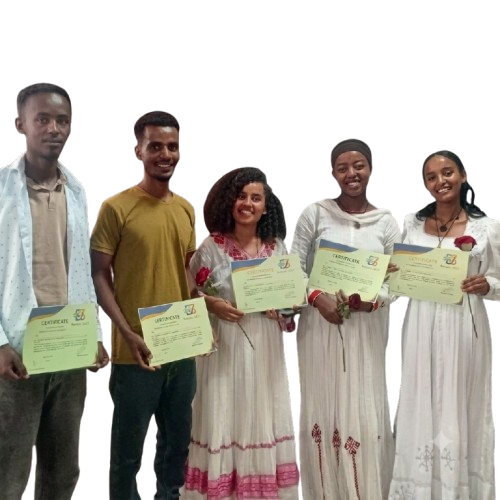
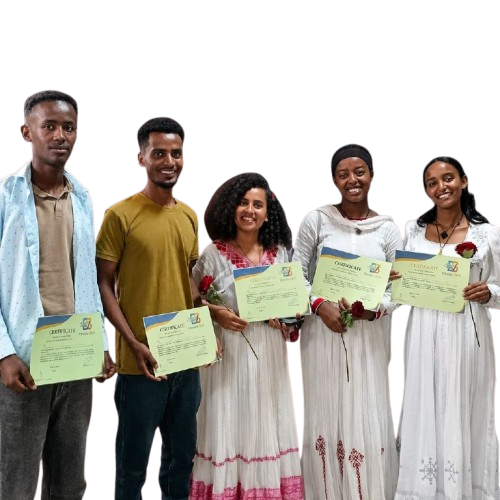
Hero, Footer, About layout

diff --git a/src/features/Home/components/Footer.tsx b/src/features/Home/components/Footer.tsx
@@ -1,27 +1,80 @@
-import { Copyright } from 'lucide-react';
+import { AtSign, Copyright, MessageCircle, Share2 } from 'lucide-react';
 import Logo from "../../../assets/operators-Logo.png"
-import { Link } from 'react-router-dom';
 
+const quickLinks = [
+  { label: "Home", href: "#hero" },
+  { label: "About", href: "#about" },
+  { label: "Team", href: "#team" },
+];
+
+const socialLinks = [
+  { label: "Social updates", href: "#", Icon: Share2 },
+  { label: "Community chat", href: "#", Icon: MessageCircle },
+  { label: "Email", href: "#", Icon: AtSign },
+];
 
 const Footer = () => {
   return (
-    <div className="flex flex-col items-center justify-center min-h-screen bg-gray-100">
-      <footer className="text-gray-600">
-        <div className="flex justify-around items-center">
-            <Link to="/" className="flex shrink-0 items-center" aria-label="SMM Operators home">
-                <img src={Logo} alt="SMM Operators logo" className="h-12 w-12 md:h-16 md:w-16 lg:h-20 lg:w-20" />
-                <span className="ml-2 text-lg font-semibold text-gray-800">SMM Operators</span>
-            </Link>
+    <footer
+      id="footer"
+      className="flex min-h-110 w-full scroll-mt-28 flex-col rounded-t-4xl bg-slate-950 px-4 py-10 text-slate-300 sm:min-h-95 sm:px-6 lg:px-16"
+    >
+      <div className="mx-auto grid w-full max-w-7xl gap-8 sm:grid-cols-2 lg:grid-cols-[1fr_auto_auto] lg:items-start">
+        <div>
+          <a href="#hero" className="flex shrink-0 items-center" aria-label="SMM Operators home">
+            <img src={Logo} alt="SMM Operators logo" className="h-14 w-14 rounded bg-white p-1" />
+            <span className="ml-3 text-lg font-semibold text-white">SMM Operators</span>
+          </a>
+          <p className="mt-4 max-w-md text-sm leading-6 text-slate-400">
+            Social media marketing support for teams that need consistent
+            planning, publishing, and reporting.
+          </p>
         </div>
 
-
-
-        <div className="flex justify-center items-center bottom-0">
-            <p> <Copyright className="inline-block mr-1" /> {new Date().getFullYear()} SMM Operators. All rights reserved.</p>
-            <p className="text-gray-600">built by <a href="#" className="text-blue-800 hover:text-blue-500">Tinsae Temesgen</a></p>
+        <div>
+          <h2 className="text-sm font-semibold uppercase tracking-[0.18em] text-white">
+            Quick links
+          </h2>
+          <nav className="mt-4 flex flex-col gap-3 text-sm">
+            {quickLinks.map((link) => (
+              <a key={link.href} href={link.href} className="transition hover:text-white">
+                {link.label}
+              </a>
+            ))}
+          </nav>
         </div>
-      </footer>
-    </div>
+
+        <div>
+          <h2 className="text-sm font-semibold uppercase tracking-[0.18em] text-white">
+            Social
+          </h2>
+          <div className="mt-4 flex gap-3">
+            {socialLinks.map(({ label, href, Icon }) => (
+              <a
+                key={label}
+                href={href}
+                aria-label={label}
+                className="flex h-10 w-10 items-center justify-center rounded-full border border-white/15 text-slate-200 transition hover:border-amber-300 hover:text-amber-300"
+              >
+                <Icon className="h-5 w-5" />
+              </a>
+            ))}
+          </div>
+        </div>
+      </div>
+
+      <div className="mx-auto mt-auto flex w-full max-w-7xl flex-col gap-3 border-t border-white/10 pt-6 text-sm text-slate-400 sm:flex-row sm:items-center sm:justify-between">
+        <p className="flex items-center gap-2">
+          <Copyright className="h-4 w-4" /> {new Date().getFullYear()} SMM Operators. All rights reserved.
+        </p>
+        <p>
+          Built by{" "}
+          <a href="#" className="font-medium text-amber-300 hover:text-amber-200">
+            Tinsae Temesgen
+          </a>
+        </p>
+      </div>
+    </footer>
   )
 }
 

diff --git a/src/shared/components/Navbar.tsx b/src/shared/components/Navbar.tsx
@@ -1,29 +1,41 @@
-import { useState } from "react"
-import { Link } from "react-router-dom"
-import { Menu, Moon, X } from "lucide-react"
-import Logo from "../../assets/operators-Logo.png"
+import { useState } from "react";
+import { Link } from "react-router-dom";
+import { Menu, Moon, X } from "lucide-react";
+import Logo from "../../assets/operators-Logo.png";
 
 const navLinks = [
   { label: "About Us", to: "/about" },
   { label: "Services", to: "/services" },
   { label: "Contact", to: "/contact" },
-]
+];
 
 const Navbar = () => {
-  const [isMenuOpen, setIsMenuOpen] = useState(false)
+  const [isMenuOpen, setIsMenuOpen] = useState(false);
 
   return (
     <div className="fixed top-0 left-0 z-50 w-full px-4 py-3 md:px-8 lg:px-16">
       <nav className="mx-auto flex max-w-7xl items-center justify-between rounded-lg bg-white/60 px-4 py-3 shadow-sm ring-1 ring-black/5 backdrop-blur">
-        <Link to="/" className="flex shrink-0 items-center" aria-label="SMM Operators home">
-          <img src={Logo} alt="SMM Operators logo" className="h-12 w-12 md:h-16 md:w-16" />
+        <Link
+          to="/"
+          className="flex shrink-0 items-center"
+          aria-label="SMM Operators home"
+        >
+          <img
+            src={Logo}
+            alt="SMM Operators logo"
+            className="h-12 w-12 md:h-16 md:w-16"
+          />
         </Link>
 
         <div className="hidden items-center gap-8 md:flex lg:gap-80">
           <ul className="flex items-center gap-6 text-sm font-medium text-gray-800 lg:gap-8">
+
             {navLinks.map((link) => (
               <li key={link.to}>
-                <Link className="transition hover:text-gray-950 text-2xl" to={link.to}>
+                <Link
+                  className="transition-colors hover:text-gray-600 text-2xl"
+                  to={link.to}
+                >
                   {link.label}
                 </Link>
               </li>
@@ -59,13 +71,21 @@ const Navbar = () => {
             type="button"
             className="flex h-10 w-10 items-center justify-center rounded-full border border-gray-200 bg-white text-gray-800"
             aria-expanded={isMenuOpen}
-            aria-label={isMenuOpen ? "Close navigation menu" : "Open navigation menu"}
+            aria-label={
+              isMenuOpen ? "Close navigation menu" : "Open navigation menu"
+            }
             onClick={() => setIsMenuOpen((current) => !current)}
           >
-            {isMenuOpen ? <X className="h-5 w-5" /> : <Menu className="h-5 w-5" />}
+            {isMenuOpen ? (
+              <X className="h-5 w-5" />
+            ) : (
+              <Menu className="h-5 w-5" />
+            )}
           </button>
         </div>
       </nav>
+
+      {/* Mobile Menu*/}
 
       {isMenuOpen && (
         <div className="mx-auto mt-2 max-w-7xl rounded-lg bg-white/95 p-4 shadow-sm ring-1 ring-black/5 backdrop-blur md:hidden">
@@ -73,7 +93,7 @@ const Navbar = () => {
             {navLinks.map((link) => (
               <li key={link.to}>
                 <Link
-                  className="block rounded-md px-3 py-2 transition hover:bg-gray-100 hover:text-gray-950"
+                  className="block rounded-md px-3 py-2 transition-colors hover:bg-gray-100 hover:text-gray-600"
                   to={link.to}
                   onClick={() => setIsMenuOpen(false)}
                 >
@@ -92,7 +112,7 @@ const Navbar = () => {
         </div>
       )}
     </div>
-  )
-}
+  );
+};
 
-export default Navbar
+export default Navbar;

diff --git a/src/features/Home/components/Hero.tsx b/src/features/Home/components/Hero.tsx
@@ -1,16 +1,52 @@
-import HeroImg from '../../../assets/images/ourTeamm.png'
+import HeroImg from "../../../assets/images/ourTeamm.png";
+
 const Hero = () => {
   return (
-    <div className="relative flex h-screen w-full items-center justify-center overflow-hidden bg-gray-100/20 z-10">
-      <div className="absolute inset-0 z-0 flex items-center justify-center top-8">
-        <img 
-    src={HeroImg} 
-    alt="Hero background"
-    className="object-cover sm:w-full sm:h-full md:w-full md:h-full lg:w-full lg:h-full xl:w-4xl xl:h-full" 
-  />
-      </div>
-    </div>
-  )
-}
+    <section className="relative isolate flex min-h-screen w-full scroll-mt-28 items-center overflow-hidden bg-slate-950 px-4 pt-32 text-white sm:px-6 lg:px-16" id="hero">
+      <div className="absolute inset-0 -z-20 bg-[radial-gradient(circle_at_top_left,rgba(245,158,11,0.28),transparent_30%),linear-gradient(135deg,#0f172a_0%,#1e293b_48%,#111827_100%)]" />
+      <div className="absolute inset-x-0 bottom-0 -z-10 h-36 bg-linear-to-t from-slate-950 to-transparent" />
 
-export default Hero
+      <div className="mx-auto grid w-full max-w-7xl items-center gap-10 lg:grid-cols-[1fr_0.95fr]">
+        <div className="max-w-2xl text-center lg:text-left">
+          <p className="md:text-3xl lg:text-4xl font-semibold uppercase text-amber-600">
+            SMM Operators
+          </p>
+          <h1 className="mt-5 text-4xl font-bold leading-tight sm:text-5xl md:text-6xl">
+            Social media operators built for steady growth.
+          </h1>
+
+          <p className="mt-5 text-base leading-8 text-slate-200 sm:text-lg md:text-xl">
+            We plan, create, publish, and optimize social media campaigns for
+            brands that need consistent execution and measurable momentum.
+          </p>
+
+          <div className="mt-8 flex flex-col items-center gap-3 sm:flex-row lg:justify-start">
+            <a
+              href="#about"
+              className="rounded-full bg-amber-400 px-6 py-3 text-sm font-bold text-slate-950 transition hover:bg-amber-300"
+            >
+              About us
+            </a>
+            <a
+              href="#team"
+              className="rounded-full border border-white/30 px-6 py-3 text-sm font-semibold text-white transition hover:border-white hover:bg-white/10"
+            >
+              Meet the team
+            </a>
+          </div>
+        </div>
+
+        <div className="relative mx-auto flex w-full max-w-xl items-end justify-center self-end">
+          <div className="absolute inset-x-8 bottom-0 h-3/4 rounded-t-full bg-white/10 blur-3xl" />
+          <img
+            src={HeroImg}
+            alt="SMM Operators team members holding certificates"
+            className="relative z-10 max-h-[64vh] w-full max-w-130 object-contain object-bottom drop-shadow-2xl"
+          />
+        </div>
+      </div>
+    </section>
+  );
+};
+
+export default Hero;

diff --git a/src/features/Home/components/Team.tsx b/src/features/Home/components/Team.tsx
@@ -1,11 +1,39 @@
 
 const Team = () => {
   return (
-    <div className="flex flex-col items-center justify-center min-h-screen bg-gray-100 ml-0.5">
-      <h2 className="text-3xl font-bold text-gray-900">Our Team</h2>
-      <p className="text-gray-600 ml-6 mr-6">Meet the talented members behind our team.</p>
-    </div>
-  )
-}
+    <section id="team" className="w-full scroll-mt-28 bg-slate-100 px-4 py-20 sm:px-6 lg:px-16">
+      <div className="mx-auto max-w-7xl">
+        <div className="max-w-3xl">
+          <p className="text-sm font-semibold uppercase tracking-[0.2em] text-amber-600">
+            Team
+          </p>
+          <h2 className="mt-3 text-3xl font-bold text-slate-950 sm:text-4xl">
+            A focused group covering strategy, content, and operations.
+          </h2>
+          <p className="mt-4 text-base leading-8 text-slate-600 sm:text-lg">
+            Meet the people behind the planning, creative direction, and
+            performance checks that keep every campaign moving.
+          </p>
+        </div>
+
+        <div className="mt-10 grid gap-4 sm:grid-cols-3">
+          {[
+            "Campaign planning",
+            "Content creation",
+            "Performance reporting",
+          ].map((item) => (
+            <div key={item} className="rounded-lg bg-white p-6 shadow-sm ring-1 ring-slate-200">
+              <h3 className="text-lg font-bold text-slate-950">{item}</h3>
+              <p className="mt-3 text-sm leading-6 text-slate-600">
+                Practical execution handled with clear ownership and regular
+                review.
+              </p>
+            </div>
+          ))}
+        </div>
+      </div>
+    </section>
+  );
+};
 
 export default Team

diff --git a/src/features/Home/components/About.tsx b/src/features/Home/components/About.tsx
@@ -1,0 +1,29 @@
+const About = () => {
+  return (
+    <section id="about" className="w-full scroll-mt-28 bg-white px-4 py-20 sm:px-6 lg:px-16">
+      <div className="mx-auto grid max-w-7xl gap-10 lg:grid-cols-[0.8fr_1fr] lg:items-center">
+        <div>
+          <p className="text-sm font-semibold uppercase tracking-[0.2em] text-amber-600">
+            About
+          </p>
+          <h2 className="mt-3 text-3xl font-bold text-slate-950 sm:text-4xl">
+            We turn social media activity into organized growth work.
+          </h2>
+        </div>
+
+        <div className="grid gap-5 text-slate-600 sm:grid-cols-2">
+          <p className="leading-7">
+            SMM Operators supports businesses with practical strategy, campaign
+            calendars, content direction, and day-to-day social media execution.
+          </p>
+          <p className="leading-7">
+            Our focus is simple: consistent publishing, clear reporting, and
+            creative decisions shaped by audience behavior.
+          </p>
+        </div>
+      </div>
+    </section>
+  );
+};
+
+export default About;

diff --git a/src/features/Home/pages/Home.tsx b/src/features/Home/pages/Home.tsx
@@ -1,4 +1,5 @@
 import Navbar from "../../../shared/components/Navbar"
+import About from "../components/About"
 import Footer from "../components/Footer"
 import Hero from "../components/Hero"
 import Team from "../components/Team"
@@ -6,10 +7,10 @@ import Team from "../components/Team"
 const Home = () => {
   return (
     <div>
-      <main className="flex flex-col items-center justify-center min-h-screen bg-gray-100">
+      <main className="flex min-h-screen flex-col items-center bg-gray-100">
         <Navbar />
         <Hero />
-
+        <About />
         <Team />
         <Footer />
       </main>
